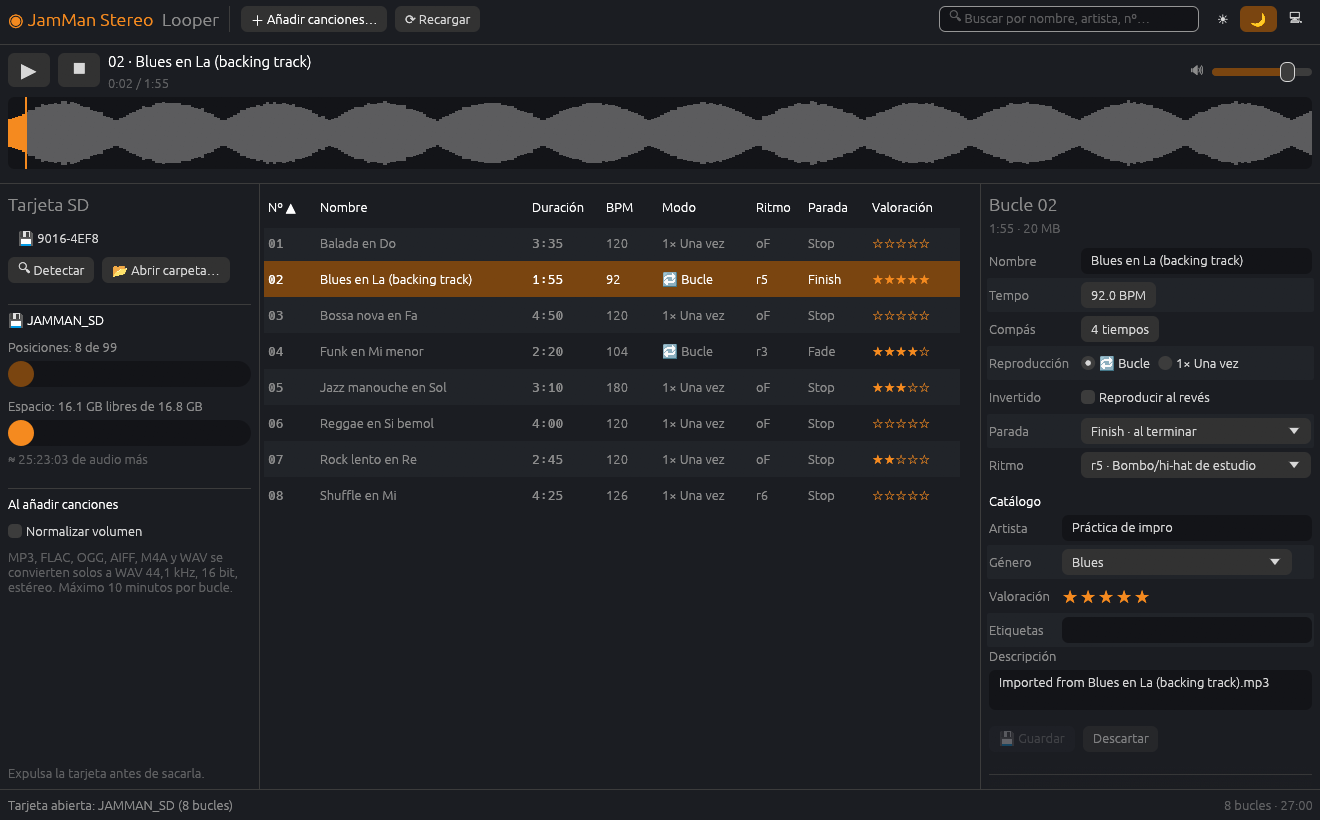
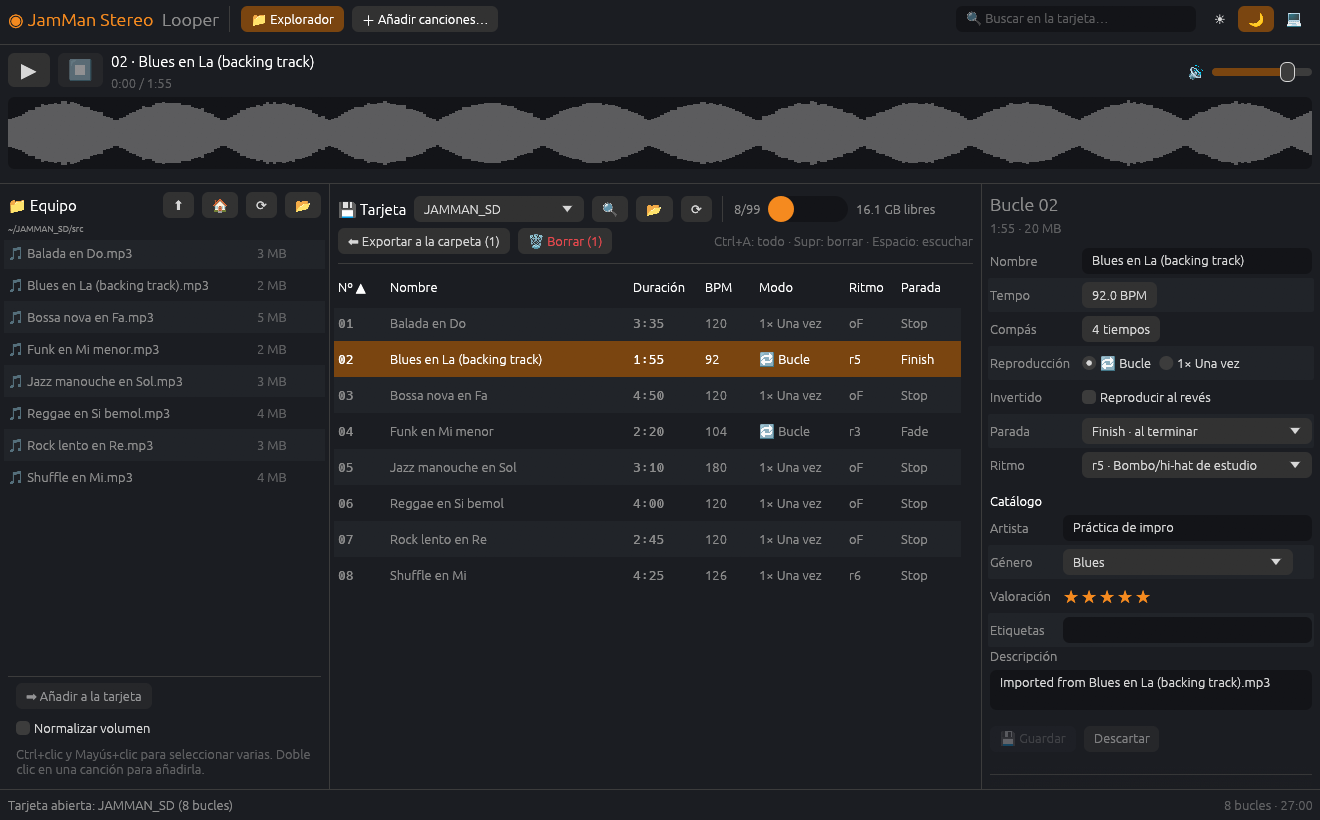
docs: reescribe el README con todas las funciones actuales
Funciones agrupadas (tarjeta, explorador SFTP, conversión, reproducción,
edición, seguridad), instalación con cargo install, tabla de atajos,
línea de comandos y desarrollo. Nueva captura con el explorador y decisión
D17.

diff --git a/README.md b/README.md
@@ -4,82 +4,154 @@ Herramienta libre y multiplataforma (Linux y Windows) para gestionar los bucles
 del pedal **DigiTech JamMan Stereo**, pensada para sustituir al software
 original (JamManager XT) cuando deje de funcionar.
 
-![Interfaz gráfica](docs/img/gui.png)
+**No hace falta conectar el pedal**: basta con meter su tarjeta SD en el
+ordenador. Las canciones se añaden, escuchan, editan y exportan directamente en
+la tarjeta.
+
+![Interfaz gráfica: explorador del equipo, tarjeta y ajustes del bucle](docs/img/gui.png)
 
 > **Estado: en desarrollo.** La gestión de la tarjeta SD (interfaz gráfica y
-> línea de comandos) funciona y está probada con una tarjeta real. El protocolo USB del pedal se ha deducido por ingeniería
-> inversa y **aún no se ha validado con el pedal**
-> ([docs/03-protocolo.md](docs/03-protocolo.md)).
+> línea de comandos) funciona y está probada con una tarjeta real. La conexión
+> con el pedal por USB se ha deducido por ingeniería inversa y **aún no se ha
+> validado con el pedal** ([docs/03-protocolo.md](docs/03-protocolo.md)).
 
-## Estructura
+## Funciones
 
-```
-crates/
-  jamman-core/   Librería: tarjeta SD, protocolo USB y límites del dispositivo
-  jamman-audio/  Conversión de audio al formato del pedal y forma de onda
-  jamman-cli/    Binario `jamman` (línea de comandos)
-  jamman-gui/    Binario `jamman-gui` (interfaz gráfica, egui)
-docs/            Proceso seguido, decisiones y protocolo
-```
+### Tarjeta SD
+- Detecta sola la tarjeta del JamMan al conectarla (o se abre cualquier carpeta).
+- Muestra las posiciones ocupadas (de 99), el espacio libre y cuántos minutos de
+  audio caben todavía.
+- Lista los bucles con número, nombre, duración, tempo, bucle o una vez, ritmo,
+  modo de parada y valoración. Se puede ordenar por columnas y buscar por
+  nombre, artista, etiquetas o número.
 
-## Compilar y probar
+### Explorador del equipo, como un cliente SFTP
+- A la izquierda, las carpetas y el audio compatible del ordenador; a la
+  derecha, la tarjeta.
+- **Del equipo a la tarjeta**: selecciona canciones o carpetas y pulsa «➡ Añadir a
+  la tarjeta», haz doble clic en una canción, usa «＋ Añadir canciones…» o
+  arrastra ficheros a la ventana.
+- **De la tarjeta al equipo**: selecciona bucles y pulsa «⬅ Exportar a la
+  carpeta» para copiar sus WAV a la carpeta abierta en el explorador. Nunca se
+  sobrescribe nada (se añade «(2)», «(3)»…).
+- **Selección múltiple** en ambos lados: Ctrl+clic, Mayús+clic y Ctrl+A.
+- Las transferencias van en segundo plano con barra de progreso; al terminar se
+  resumen los errores, si los hay.
+
+### Conversión de audio automática
+- MP3, FLAC, OGG, AIFF, M4A y WAV de cualquier frecuencia, resolución y número de
+  canales se convierten al formato del pedal: WAV 44,1 kHz, 16 bit, estéreo.
+- Normalización de volumen opcional (pico justo por debajo de 0 dB).
+- Máximo 10 minutos por bucle, como el pedal.
+
+### Escuchar
+- Reproductor con forma de onda: doble clic en un bucle, barra espaciadora o ▶.
+  Clic en la forma de onda para saltar a ese punto. Control de volumen.
+
+### Editar cada bucle
+Con los ajustes que describe el manual del pedal:
+- Nombre, tempo (40–240 BPM), compás (2–15 tiempos), bucle o una vez,
+  reproducción invertida.
+- Modo de parada (Stop, Finish, Fade) y ritmo guía (oF, r1–r9).
+- Catálogo: artista, género, valoración, etiquetas y descripción.
+- «Guardar» (Ctrl+S) escribe solo lo que ha cambiado; avisa si cambias de bucle
+  con cambios sin guardar.
+- Mover un bucle a otra posición (si está ocupada, se intercambian).
+- Borrar uno o varios bucles (Supr), con confirmación.
+
+### Seguridad de la tarjeta
+- Los ficheros generados son idénticos byte a byte a los del software original.
+- Un bucle nuevo se construye aparte y solo aparece al final: un fallo (audio
+  inválido, tarjeta llena) no deja nada a medias.
+- Al editar se conserva todo lo que no se toca, incluidos los bucles grabados en
+  el propio pedal.
+- Recuerda **expulsar la tarjeta** antes de sacarla del ordenador.
+
+### Otros
+- Tema oscuro, claro o el del sistema.
+- Línea de comandos para todo lo de la tarjeta (ver abajo).
+
+## Instalación
 
 Requiere Rust 1.95 o superior. En Linux hacen falta las cabeceras de ALSA y
 libudev (en Arch: `alsa-lib` y `systemd-libs`; en Debian/Ubuntu:
 `libasound2-dev` y `libudev-dev`).
 
 ```bash
-cargo build --release
-cargo test
-cargo clippy --all-targets
+git clone https://github.com/javierjcf/jamman-stereo-looper.git
+cd jamman-stereo-looper
+cargo run --release -p jamman-gui
+```
+
+Para tener los comandos `jamman-gui` y `jamman` en el sistema:
+
+```bash
+cargo install --path crates/jamman-gui
+cargo install --path crates/jamman-cli
 ```
 
 ## Interfaz gráfica
 
 ```bash
-cargo run --release -p jamman-gui                 # detecta la tarjeta sola
-cargo run --release -p jamman-gui -- /ruta/a/la/tarjeta
+jamman-gui                      # abre la tarjeta si solo hay una conectada
+jamman-gui /ruta/a/la/tarjeta   # abre esa tarjeta (o su carpeta JamManStereo)
 ```
 
-- Inserta la tarjeta SD del pedal en el ordenador: si solo hay una, se abre sola.
-- **Añadir canciones**: botón «＋ Añadir canciones…» o arrastra ficheros o carpetas
-  a la ventana. MP3, FLAC, OGG, AIFF, M4A y WAV se convierten automáticamente al
-  formato del pedal (opción de normalizar el volumen).
-- **Escuchar**: doble clic en una fila, barra espaciadora o el botón ▶; clic en la
-  forma de onda para saltar.
-- **Editar** en el panel derecho: nombre, tempo, compás, bucle o una vez,
-  invertido, modo de parada, ritmo y catálogo. «Guardar» (Ctrl+S) escribe en la
-  tarjeta.
-- **Mover/intercambiar** posiciones, **exportar** a WAV y **borrar** (Supr, con
-  confirmación).
+| Atajo | Acción |
+|---|---|
+| Clic / Ctrl+clic / Mayús+clic | Seleccionar uno / añadir o quitar / un rango |
+| Ctrl+A | Seleccionar todos los bucles visibles |
+| Doble clic | Bucle: escuchar · Canción del explorador: añadirla · Carpeta: entrar |
+| Espacio | Escuchar o pausar |
+| Supr | Borrar la selección (pide confirmación) |
+| Ctrl+S | Guardar los ajustes del bucle |
 
-## Línea de comandos con la tarjeta SD (no necesita el pedal)
-
-Es la función principal: gestionar los bucles directamente en la tarjeta.
+## Línea de comandos
 
 ```bash
-jamman card ls /run/media/$USER/TARJETA                 # lista los bucles
-jamman card add /run/media/$USER/TARJETA cancion.mp3    # añade (primera posición libre)
-jamman card add /run/media/$USER/TARJETA cancion.wav --slot 30 --name "Mi canción"
-jamman card rename /run/media/$USER/TARJETA 30 "Otro nombre"
-jamman card export /run/media/$USER/TARJETA 30 copia.wav
-jamman card rm /run/media/$USER/TARJETA 30              # pide confirmación
+jamman card ls <tarjeta>                                 # lista los bucles
+jamman card add <tarjeta> cancion.mp3                    # añade en la primera posición libre
+jamman card add <tarjeta> cancion.flac --slot 30 --name "Mi canción" --normalize
+jamman card rename <tarjeta> 30 "Otro nombre"
+jamman card export <tarjeta> 30 copia.wav
+jamman card rm <tarjeta> 30                              # pide confirmación (o --yes)
+jamman card init <punto-de-montaje>                      # prepara una tarjeta vacía
 ```
 
-El audio se convierte solo a WAV 44,1 kHz, 16 bit, estéreo (máximo 10 minutos
-por bucle); `--normalize` ajusta el volumen. Expulsa la tarjeta antes de sacarla. Formato completo en [docs/04-tarjeta-sd.md](docs/04-tarjeta-sd.md).
+`<tarjeta>` es el punto de montaje (en Linux, p. ej. `/run/media/$USER/ETIQUETA`;
+en Windows, `E:\`). Sin instalar, usa `cargo run --release -p jamman-cli -- card …`.
 
-## Uso con el pedal por USB (experimental)
+### Pedal por USB (experimental, sin validar)
 
 ```bash
-cargo run -p jamman-cli -- ports          # busca el pedal (USB 1210:0020)
-cargo run -p jamman-cli -- who-am-i       # identificación
-cargo run -p jamman-cli -- ls /           # lista una carpeta del pedal
-cargo run -p jamman-cli -- get <ruta> <destino>
+jamman ports              # busca el pedal (USB 1210:0020)
+jamman who-am-i           # identificación
+jamman ls /               # lista una carpeta del pedal
+jamman get <ruta> <destino>
 ```
 
-En Linux el pedal aparece como `/dev/ttyACM*`. Tu usuario necesita permiso sobre
+En Linux el pedal aparece como `/dev/ttyACM*`; tu usuario necesita permiso sobre
 ese dispositivo (grupo `uucp` en Arch, `dialout` en Debian/Ubuntu).
+
+## Desarrollo
+
+```bash
+cargo test                     # tests de todo el proyecto
+cargo clippy --all-targets     # sin avisos
+```
+
+```
+crates/
+  jamman-core/   Librería: tarjeta SD, protocolo USB y límites del dispositivo
+  jamman-audio/  Conversión de audio al formato del pedal y forma de onda
+  jamman-cli/    Binario `jamman` (línea de comandos)
+  jamman-gui/    Binario `jamman-gui` (interfaz gráfica con egui)
+docs/            Proceso seguido, decisiones, protocolo y formato de la tarjeta
+```
+
+La lógica de la interfaz (`state.rs`, `browser.rs`, `selection.rs`) no depende
+de egui y tiene tests. `JAMMAN_SCREENSHOT=captura.ppm jamman-gui` guarda una
+captura de la ventana (ver `crates/jamman-gui/src/devshot.rs`).
 
 ## Documentación
 

diff --git a/docs/02-decisiones.md b/docs/02-decisiones.md
@@ -97,3 +97,15 @@ duradero**; ninguna funcionalidad sin necesidad real.
 - `rust-version` sube a 1.95 para usar egui/eframe 0.37, la versión actual.
 - `JAMMAN_SCREENSHOT` guarda una captura de la ventana: sirve para revisar el
   diseño y generar la imagen del README sin herramientas externas.
+
+## D17. Explorador del equipo al estilo SFTP
+- El panel izquierdo muestra el equipo y el centro la tarjeta: las
+  transferencias se hacen con botones de dirección («➡ Añadir», «⬅ Exportar»)
+  sobre la selección, como en los clientes SFTP. Sin arrastrar entre paneles,
+  para no complicarlo.
+- Solo se listan carpetas y audio compatible; los ocultos no.
+- La exportación nunca sobrescribe (añade «(2)»…) y sanea los nombres para que
+  valgan en Windows y Linux.
+- Selección múltiple genérica (`selection.rs`) compartida por las dos listas; el
+  bucle "principal" (el último pulsado) es el que se edita y reproduce.
+- La ruta se muestra con la carpeta personal abreviada como `~`.
